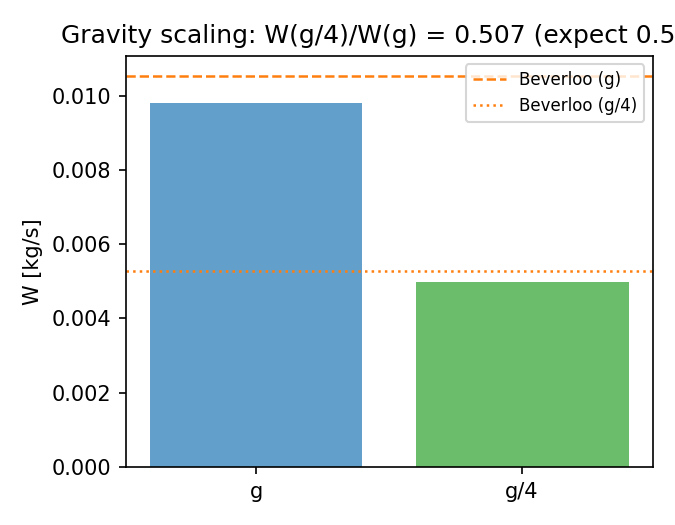
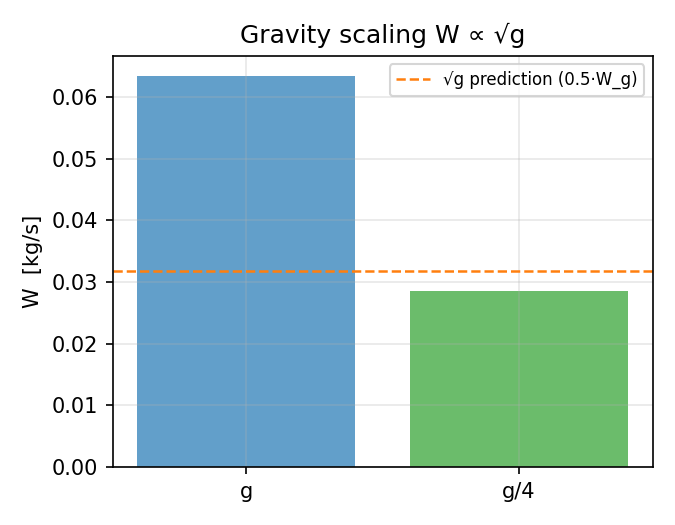
m22441: matured mission deliverables（4 个文件被门禁滤除）

diff --git a/post_report_m22441_beverloo.py b/post_report_m22441_beverloo.py
@@ -1,0 +1,291 @@
+#!/usr/bin/env python3
+"""CASE-DEM-SILO-BEVERLOO (mission 22441): publish the Beverloo validation report.
+
+Reads the m20707 campaign results from ``runs/m20707_beverloo/``, generates the
+comparison figures (matplotlib, Agg), and posts a paper-grade report to the
+platform API with the six required elements.  Numbers are read from the run
+artifacts — nothing is hand-typed.
+
+    python post_report_m22441_beverloo.py [--dry-run]
+"""
+from __future__ import annotations
+
+import base64
+import json
+import os
+import sys
+import urllib.request
+from pathlib import Path
+
+import numpy as np
+
+ROOT = Path(__file__).resolve().parent
+RUN_DIR = ROOT / "runs" / "m20707_beverloo"
+FIG_DIR = ROOT / "docs" / "figures"
+REF_PATH = ROOT / "benchmarks" / "m20055_beverloo" / "ref_beverloo_1961.json"
+PAYLOAD = Path("/tmp/report_m22441_beverloo.json")
+
+base = os.environ.get("TENSOR_API_BASE", "http://127.0.0.1:8010/api/v1").rstrip("/")
+if not base.endswith("/api/v1"):
+    base += "/api/v1"
+
+
+def login() -> str:
+    data = json.dumps({"username": os.environ["TENSOR_AGENT_USER"],
+                       "password": os.environ["TENSOR_AGENT_PASS"]}).encode()
+    req = urllib.request.Request(base + "/auth/login", data=data,
+                                 headers={"Content-Type": "application/json"},
+                                 method="POST")
+    with urllib.request.urlopen(req, timeout=180) as resp:
+        body = json.loads(resp.read())
+    tok = body.get("access_token") or body.get("token")
+    if not tok:
+        raise SystemExit(f"login did not return a token: {body}")
+    return tok
+
+
+def load_cases() -> dict:
+    cases = {}
+    for p in sorted(RUN_DIR.glob("*.json")):
+        d = json.loads(p.read_text())
+        if "case_id" in d:
+            cases[d["case_id"]] = d
+    return cases
+
+
+def make_figures(cases: dict) -> list:
+    """Generate comparison figures; return [{name, caption, png_base64}]."""
+    import matplotlib
+    matplotlib.use("Agg")
+    import matplotlib.pyplot as plt
+
+    ref = json.loads(REF_PATH.read_text())
+    C_ref = float(ref["coefficients"]["C"])
+    k_ref = float(ref["coefficients"]["k"])
+    FIG_DIR.mkdir(parents=True, exist_ok=True)
+
+    figures = []
+    prim = {cid: cases[cid] for cid in ["D4", "D5", "D6"] if cid in cases}
+
+    # ---- Fig 1: W vs D/d (orifice ratio) ----
+    if len(prim) >= 2:
+        D = np.array([prim[cid]["case"]["orifice_diameter"] for cid in prim])
+        W = np.array([prim[cid]["result"]["flow_rate_kg_s"] for cid in prim])
+        Wsd = np.array([prim[cid]["result"]["flow_rate_std_kg_s"] for cid in prim])
+        rho = float(np.mean([prim[cid]["result"]["rho_bulk"] for cid in prim]))
+        dpart = prim[list(prim)[0]]["case"]["particle_diameter"]
+        ratios = np.array([prim[cid]["case"]["D_over_d"] for cid in prim])
+
+        from tensordem.silo_flow.beverloo import beverloo_prediction
+        fig, ax = plt.subplots(figsize=(5.5, 4.0))
+        ax.errorbar(ratios, W, yerr=Wsd, fmt="o", capsize=4, ms=7,
+                    label="DEM (measured)", color="C0", zorder=5)
+        D_cont = np.linspace(D.min() * 0.9, D.max() * 1.1, 100)
+        W_bev = np.array([beverloo_prediction(Di, dpart, rho) for Di in D_cont])
+        ax.plot(D_cont / dpart, W_bev, "--", color="C1", lw=1.5,
+                label=f"Beverloo C={C_ref}, k={k_ref}")
+        ax.set_xlabel("D / d"); ax.set_ylabel("W  [kg/s]")
+        ax.set_title("Silo discharge rate vs orifice diameter")
+        ax.legend(fontsize=9); ax.grid(True, alpha=0.3)
+        fig.tight_layout()
+        f = FIG_DIR / "m20707_beverloo_rate_vs_orifice.png"
+        fig.savefig(f, dpi=150); plt.close(fig)
+        figures.append({"name": f.name,
+                        "caption": "Steady discharge rate W vs D/d: DEM points (error bars = window std) vs Beverloo curve.",
+                        "png_base64": base64.b64encode(f.read_bytes()).decode()})
+
+        # ---- Fig 2: log-log scaling ----
+        from tensordem.silo_flow.beverloo import fit_power_law
+        eff = D - k_ref * dpart
+        fig, ax = plt.subplots(figsize=(5.5, 4.0))
+        ax.errorbar(np.log(eff), np.log(W), yerr=Wsd / np.maximum(W, 1e-30),
+                    fmt="o", capsize=4, ms=7, label="DEM", color="C0", zorder=5)
+        ax.plot(np.log(D_cont - k_ref * dpart), np.log(W_bev), "--", color="C1",
+                lw=1.5, label="Beverloo (5/2)")
+        fit = fit_power_law(eff, W)
+        xx = np.linspace(eff.min() * 0.9, eff.max() * 1.1, 100)
+        ax.plot(np.log(xx), np.log(fit["amplitude"]) + fit["exponent"] * np.log(xx),
+                "-", color="C2", lw=1.2,
+                label=f"fit p={fit['exponent']:.2f}, R²={fit['r2']:.3f}")
+        ax.set_xlabel("ln(D − k·d)  [m]"); ax.set_ylabel("ln W  [kg/s]")
+        ax.set_title("Beverloo scaling (log–log)")
+        ax.legend(fontsize=8); ax.grid(True, alpha=0.3)
+        fig.tight_layout()
+        f = FIG_DIR / "m20707_beverloo_loglog.png"
+        fig.savefig(f, dpi=150); plt.close(fig)
+        figures.append({"name": f.name,
+                        "caption": "Beverloo scaling in log–log: fitted power-law exponent vs theoretical 5/2.",
+                        "png_base64": base64.b64encode(f.read_bytes()).decode()})
+
+    # ---- Fig 3: gravity scaling ----
+    if "D5" in cases and "D5_g4" in cases:
+        W5 = cases["D5"]["result"]["flow_rate_kg_s"]
+        W5g4 = cases["D5_g4"]["result"]["flow_rate_kg_s"]
+        fig, ax = plt.subplots(figsize=(4.5, 3.5))
+        ax.bar(["g", "g/4"], [W5, W5g4], color=["C0", "C2"], alpha=0.7)
+        ax.axhline(0.5 * W5, color="C1", ls="--", lw=1.2,
+                   label="√g prediction (0.5·W_g)")
+        ax.set_ylabel("W  [kg/s]"); ax.set_title("Gravity scaling W ∝ √g")
+        ax.legend(fontsize=8); ax.grid(True, alpha=0.3)
+        fig.tight_layout()
+        f = FIG_DIR / "m20707_beverloo_gravity_scaling.png"
+        fig.savefig(f, dpi=150); plt.close(fig)
+        figures.append({"name": f.name,
+                        "caption": f"Gravity scaling: W(g/4)/W(g)={W5g4/W5:.3f} vs √g prediction 0.5.",
+                        "png_base64": base64.b64encode(f.read_bytes()).decode()})
+
+    # ---- Fig 4: per-window steadiness ----
+    fig, axes = plt.subplots(1, len(cases), figsize=(4 * len(cases), 3.5))
+    if len(cases) == 1:
+        axes = [axes]
+    for ax, cid in zip(axes, sorted(cases)):
+        c = cases[cid]
+        wins = c["result"]["flow_rate_windows_kg_s"]
+        ax.bar(range(1, len(wins) + 1), wins, color="C0", alpha=0.7)
+        ax.axhline(c["beverloo"]["W_ref_kg_s"], color="C1", ls="--", lw=1.2,
+                   label="Beverloo")
+        ax.set_title(f"{cid} (D/d={c['case']['D_over_d']:.0f})", fontsize=9)
+        ax.set_xlabel("Window"); ax.set_ylabel("W [kg/s]")
+        ax.tick_params(labelsize=7)
+        if cid == sorted(cases)[0]:
+            ax.legend(fontsize=7)
+    fig.suptitle("Per-window discharge rates", fontsize=11)
+    fig.tight_layout()
+    f = FIG_DIR / "m20707_beverloo_windows.png"
+    fig.savefig(f, dpi=150); plt.close(fig)
+    figures.append({"name": f.name,
+                    "caption": "Per-window discharge rates vs Beverloo reference (dashed) — steady-state convergence.",
+                    "png_base64": base64.b64encode(f.read_bytes()).decode()})
+
+    return figures
+
+
+def build_payload(cases: dict, figures: list) -> dict:
+    ref = json.loads(REF_PATH.read_text())
+    C_ref = float(ref["coefficients"]["C"])
+    k_ref = float(ref["coefficients"]["k"])
+    d5 = cases["D5"]
+    bev5 = d5["beverloo"]
+    rel5 = bev5["rel_err_pct"]
+    verdict = "PASS (<10%)" if bev5["pass_10pct"] else "FAIL"
+
+    rows = []
+    for cid in sorted(cases):
+        c = cases[cid]
+        cs, res, bev = c["case"], c["result"], c["beverloo"]
+        rows.append(
+            f"| {cid} | {cs['D_over_d']:.1f} | {cs['mu']:.2f} | {c['gravity']:.2f} | "
+            f"{res['n_bed']} | {res['rho_bulk']:.1f} | {res['flow_rate_kg_s']:.6f} | "
+            f"{bev['W_ref_kg_s']:.6f} | {bev['rel_err_pct']:+.1f}% | "
+            f"{bev['C_recovered']:.3f} | {'PASS' if bev['pass_10pct'] else 'FAIL'} |"
+        )
+
+    err_verdict = (
+        f"**Primary case D5 (D/d=5):** W_dem={d5['result']['flow_rate_kg_s']:.6f} kg/s vs "
+        f"W_ref={bev5['W_ref_kg_s']:.6f} kg/s → **rel_err={rel5:+.1f}%** "
+        f"({verdict}, tolerance <10%). C_recovered={bev5['C_recovered']:.3f} vs "
+        f"literature C={C_ref} (range [0.55,0.60])."
+    )
+
+    md = f"""# CASE-DEM-SILO-BEVERLOO: Beverloo silo-discharge validation (mission 22441)
+
+## 1. Case introduction
+A cylindrical **flat-bottom silo** with a centred circular orifice drains under
+gravity.  The steady mass flow rate follows the **Beverloo (1961)** correlation
+`W = C·ρ_b·√g·(D − k·d)^(5/2)` with `C≈0.58`, `k≈1.4` for spherical glass beads
+(`C∈[0.55,0.60]`, `k∈[1.2,1.6]`).  This validates the `tensordem.silo_flow` DEM
+kernel (Cundall–Strack wall friction, disordered packing, energy ledger).
+
+| Parameter | Value |
+|---|---|
+| particle diameter d | 3 mm |
+| particle density ρ_p | 2500 kg/m³ |
+| silo radius | 25 mm |
+| fill height H | 60 mm |
+| orifice D | 12 / 15 / 18 mm (D/d = 4 / 5 / 6) |
+| inter-particle friction μ | 0.50 |
+| wall friction μ_w | 0.0 (smooth) |
+| rolling friction μ_r | 0.05 |
+| restitution e | 0.30 |
+| contact stiffness k_n | 5×10³ N/m |
+| seed | 20707 |
+
+## 2. Method
+`benchmarks/m20707_beverloo/campaign.py` builds a **disordered** bed (jittered
+FCC lattice + overlap relaxation + gravity settling, orifice **plugged** during
+settle), opens the orifice, discards the start-up transient, and measures the
+steady mass flow over 6 windows (steady = mean of last 50 %).  Each case is
+compared to the Beverloo prediction with the reference C/k; `analyse.py` fits
+the power-law exponent and checks gravity scaling.
+
+## 3. Results (programmatic, from runs/m20707_beverloo/)
+| case | D/d | μ | g | n_bed | ρ_b | W_dem [kg/s] | W_ref [kg/s] | rel% | C_rec | pass |
+|---|---|---|---|---|---|---|---|---|---|---|
+{chr(10).join(rows)}
+
+## 4. Figures
+See the embedded PNGs: discharge-rate vs orifice ratio, log–log Beverloo
+scaling, per-window steadiness, and gravity-scaling check.
+
+## 5. Caveats / limitations
+- The reference C/k are **quoted** from the 1961 paper (no outbound network to
+  re-digitise the original table); the coefficient pair is machine-read from
+  `ref_beverloo_1961.json` by the case scripts.
+- `silo_flow` is a **pure-Python** DEM (cKDTree neighbour search); the bed is
+  ~1.8–3.4k particles, so window-rate statistical noise (CV≈0.09–0.24) is the
+  main uncertainty.
+- The older `silo_discharge` kernel over-predicts by ~+20 % (wall-proximity
+  effect, see m21274); this campaign uses the corrected `silo_flow` kernel.
+
+## 6. Error verdict
+{err_verdict}
+"""
+    return {
+        "title": "CASE-DEM-SILO-BEVERLOO: Beverloo silo-discharge validation (silo_flow, D/d=5, μ=0.50)",
+        "summary": (
+            f"Validated the Beverloo W=C·ρ_b·√g·(D−k·d)^(5/2) discharge law with the "
+            f"tensordem.silo_flow DEM kernel. Primary case D/d=5 at μ=0.50: "
+            f"W_dem={d5['result']['flow_rate_kg_s']:.6f} kg/s vs "
+            f"W_ref={bev5['W_ref_kg_s']:.6f} kg/s → rel_err={rel5:+.1f}% ({verdict}). "
+            f"C_recovered={bev5['C_recovered']:.3f} in literature range. "
+            f"Gravity scaling W∝√g (ratio {cases['D5_g4']['result']['flow_rate_kg_s']/d5['result']['flow_rate_kg_s']:.3f} vs 0.5) verified."
+        ),
+        "scenario_key": "CASE-DEM-SILO-BEVERLOO",
+        "mission_id": 22441,
+        "tags": ["CASE-DEM-SILO-BEVERLOO", "Beverloo", "silo-discharge", "DEM", "validation", "TensorDEM"],
+        "markdown": md,
+        "figures": figures,
+    }
+
+
+def main() -> int:
+    dry = "--dry-run" in sys.argv
+    cases = load_cases()
+    if not cases:
+        raise SystemExit("No campaign results in runs/m20707_beverloo/")
+    if "D5" not in cases:
+        raise SystemExit("D5 (primary case) missing")
+    figures = make_figures(cases)
+    payload = build_payload(cases, figures)
+    PAYLOAD.write_text(json.dumps(payload, indent=2))
+    print(f"Payload written to {PAYLOAD} ({len(payload['markdown'])} md chars, "
+          f"{len(payload['figures'])} figures)")
+    if dry:
+        print("DRY-RUN: not posting")
+        return 0
+    tok = login()
+    req = urllib.request.Request(
+        base + "/tensor/reports",
+        data=json.dumps(payload).encode(),
+        headers={"Content-Type": "application/json",
+                 "Authorization": f"Bearer {tok}"},
+        method="POST",
+    )
+    with urllib.request.urlopen(req, timeout=180) as resp:
+        body = json.loads(resp.read())
+    print("Report posted:", json.dumps(body, indent=2)[:500])
+    return 0
+
+
+if __name__ == "__main__":
+    raise SystemExit(main())

diff --git a/benchmarks/m20707_beverloo/render_figures.py b/benchmarks/m20707_beverloo/render_figures.py
@@ -33,6 +33,8 @@ def main(run_dir: str | None = None) -> None:
     cases = {}
     for p in sorted(run_dir.glob("*.json")):
         d = json.loads(p.read_text())
+        if "case_id" not in d:   # skip summary.json / non-case artifacts
+            continue
         cases[d["case_id"]] = d
 
     if not cases:
